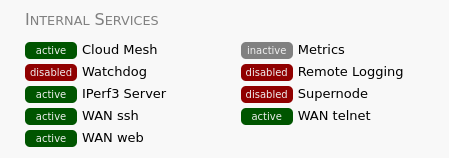
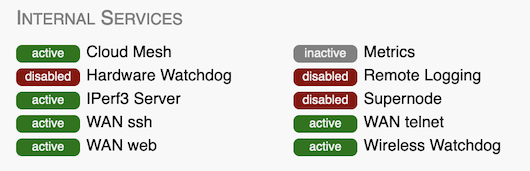
update Internal Svc info (#444)

Changed region(s): [[0.5301, 0.2532, 0.9666, 0.9367], [0.0312, 0.2532, 0.4365, 0.9367], [0.0312, 0.0506, 0.3742, 0.1772]]

diff --git a/arednGettingStarted/node_admin.rst b/arednGettingStarted/node_admin.rst
@@ -320,33 +320,29 @@ WAN telnet
 WAN web
   This switch enables http/https access to your node on its WAN interface. Disabling this option will not prevent http/https access to your node from the Mesh and LAN interfaces.
 
-Watchdog
-  Watchdog is a background monitor that keeps track of core node processes. If any of the processes has issues, Watchdog will reboot the node. This feature is ``disabled`` by default. Currently the set of node processes that are monitored include olsrd, dnsmasq, telnetd, dropbear, uhttpd, and vtund. Watchdog events are logged in the standard log on the node. Because the watchdog is part of the hardware, the device will still reboot itself even if the kernel crashes.
+Hardware Watchdog
+  Hardware watchdog is a background monitor that keeps track of core node processes. If any of the processes has issues, it will reboot the node. This feature is ``disabled`` by default. Currently the set of node processes that are monitored include olsrd, dnsmasq, telnetd, dropbear, uhttpd, and vtund. Hardware watchdog events are logged in the standard log on the node. Because the watchdog is part of the hardware, the device will still reboot itself even if the kernel crashes.
 
-  .. attention:: Be aware that you must disable Watchdog and reboot your node before you can upgrade the firmware, since Watchdog may interfere with the normal upgrade process.
+  .. attention:: Be aware that you must disable Hardware Watchdog and reboot your node before you can upgrade the firmware, since Watchdog may interfere with the normal upgrade process.
 
-  If Watchdog is enabled, the following two fields will also be displayed.
+Wireless Watchdog
+  This background monitor will restart the mesh radio if it becomes unresponsive. If Wireless Watchdog is enabled, the following fields will also be displayed.
 
-  Watchdog IP addresses
-    You may include one or more IP addresses, at least one of which should always be pingable. Your node will be rebooted if none of the IP addresses are reachable across the network. Enter IP addresses as a whitespace-delimited list. It is strongly recommended that you keep this list to the absolute minimum. Too many address can take a long time to check, especially if several are unavailable. This can result in reboots if the testing is not performed before the watchdog timer expires. Ideally use addresses that respond quickly to pings.
+  Daily Wireless Watchdog Time
+    This field allows you to set a specific time of the day (between 00:00 and 23:59) to restart the wifi automatically.
 
-  Daily Watchdog time
-    Set a specific time of the day (between 00:00 and 23:59) that you would like Watchdog to automatically reboot your node. The default is an empty field, in which case Watchdog will not auto-reboot your node.
+  Wireless Watchdog LQM
+    This switch enables restarting the Link Quality Manager (LQM) whenever the Wireless Watchdog restarts the radio. This feature is ``disabled`` by default.
+
+PoE and USB Power Passthrough
+  These settings will only appear if you have node hardware which supports PoE or USB power passthrough. One example is the *Mikrotik hAP ac lite* which provides one USB-A power jack (~5v) as well as PoE power passthrough on Ethernet port 5 (~22v). You are allowed to enable or disable power passthrough on nodes with ports that support this feature.
+
+|
 
 .. image:: _images/admin-internal-svc-3.png
   :alt: Admin Internal Services continued
   :align: center
 
-|
-
-Wireless Watchdog
-  This background monitor will restart the mesh radio if it becomes unresponsive. If Wireless Watchdog is enabled, the following field will also be displayed.
-
-  Daily Wireless Watchdog Time
-    You may enter a time of day in this field (between 00:00 and 23:59) to have the Wireless Watchdog automatically restart the mesh radio.
-
-PoE and USB Power Passthrough
-  These settings will only appear if you have node hardware which supports PoE or USB power passthrough. One example is the *Mikrotik hAP ac lite* which provides one USB-A power jack (~5v) as well as PoE power passthrough on Ethernet port 5 (~22v). You are allowed to enable or disable power passthrough on nodes with ports that support this feature.
 
 Message Updates
   The AREDN® development team may post messages which Internet-connected nodes will automatically download and display. You may also use a local message source to display messages on your node's status page. Enter an integer in this field for the number of hours you want your node to wait before refreshing its messages. Decimal fractions of an hour are allowed (for example, ``0.5`` for every 30 minutes). The default value is ``1`` hour between updates.
